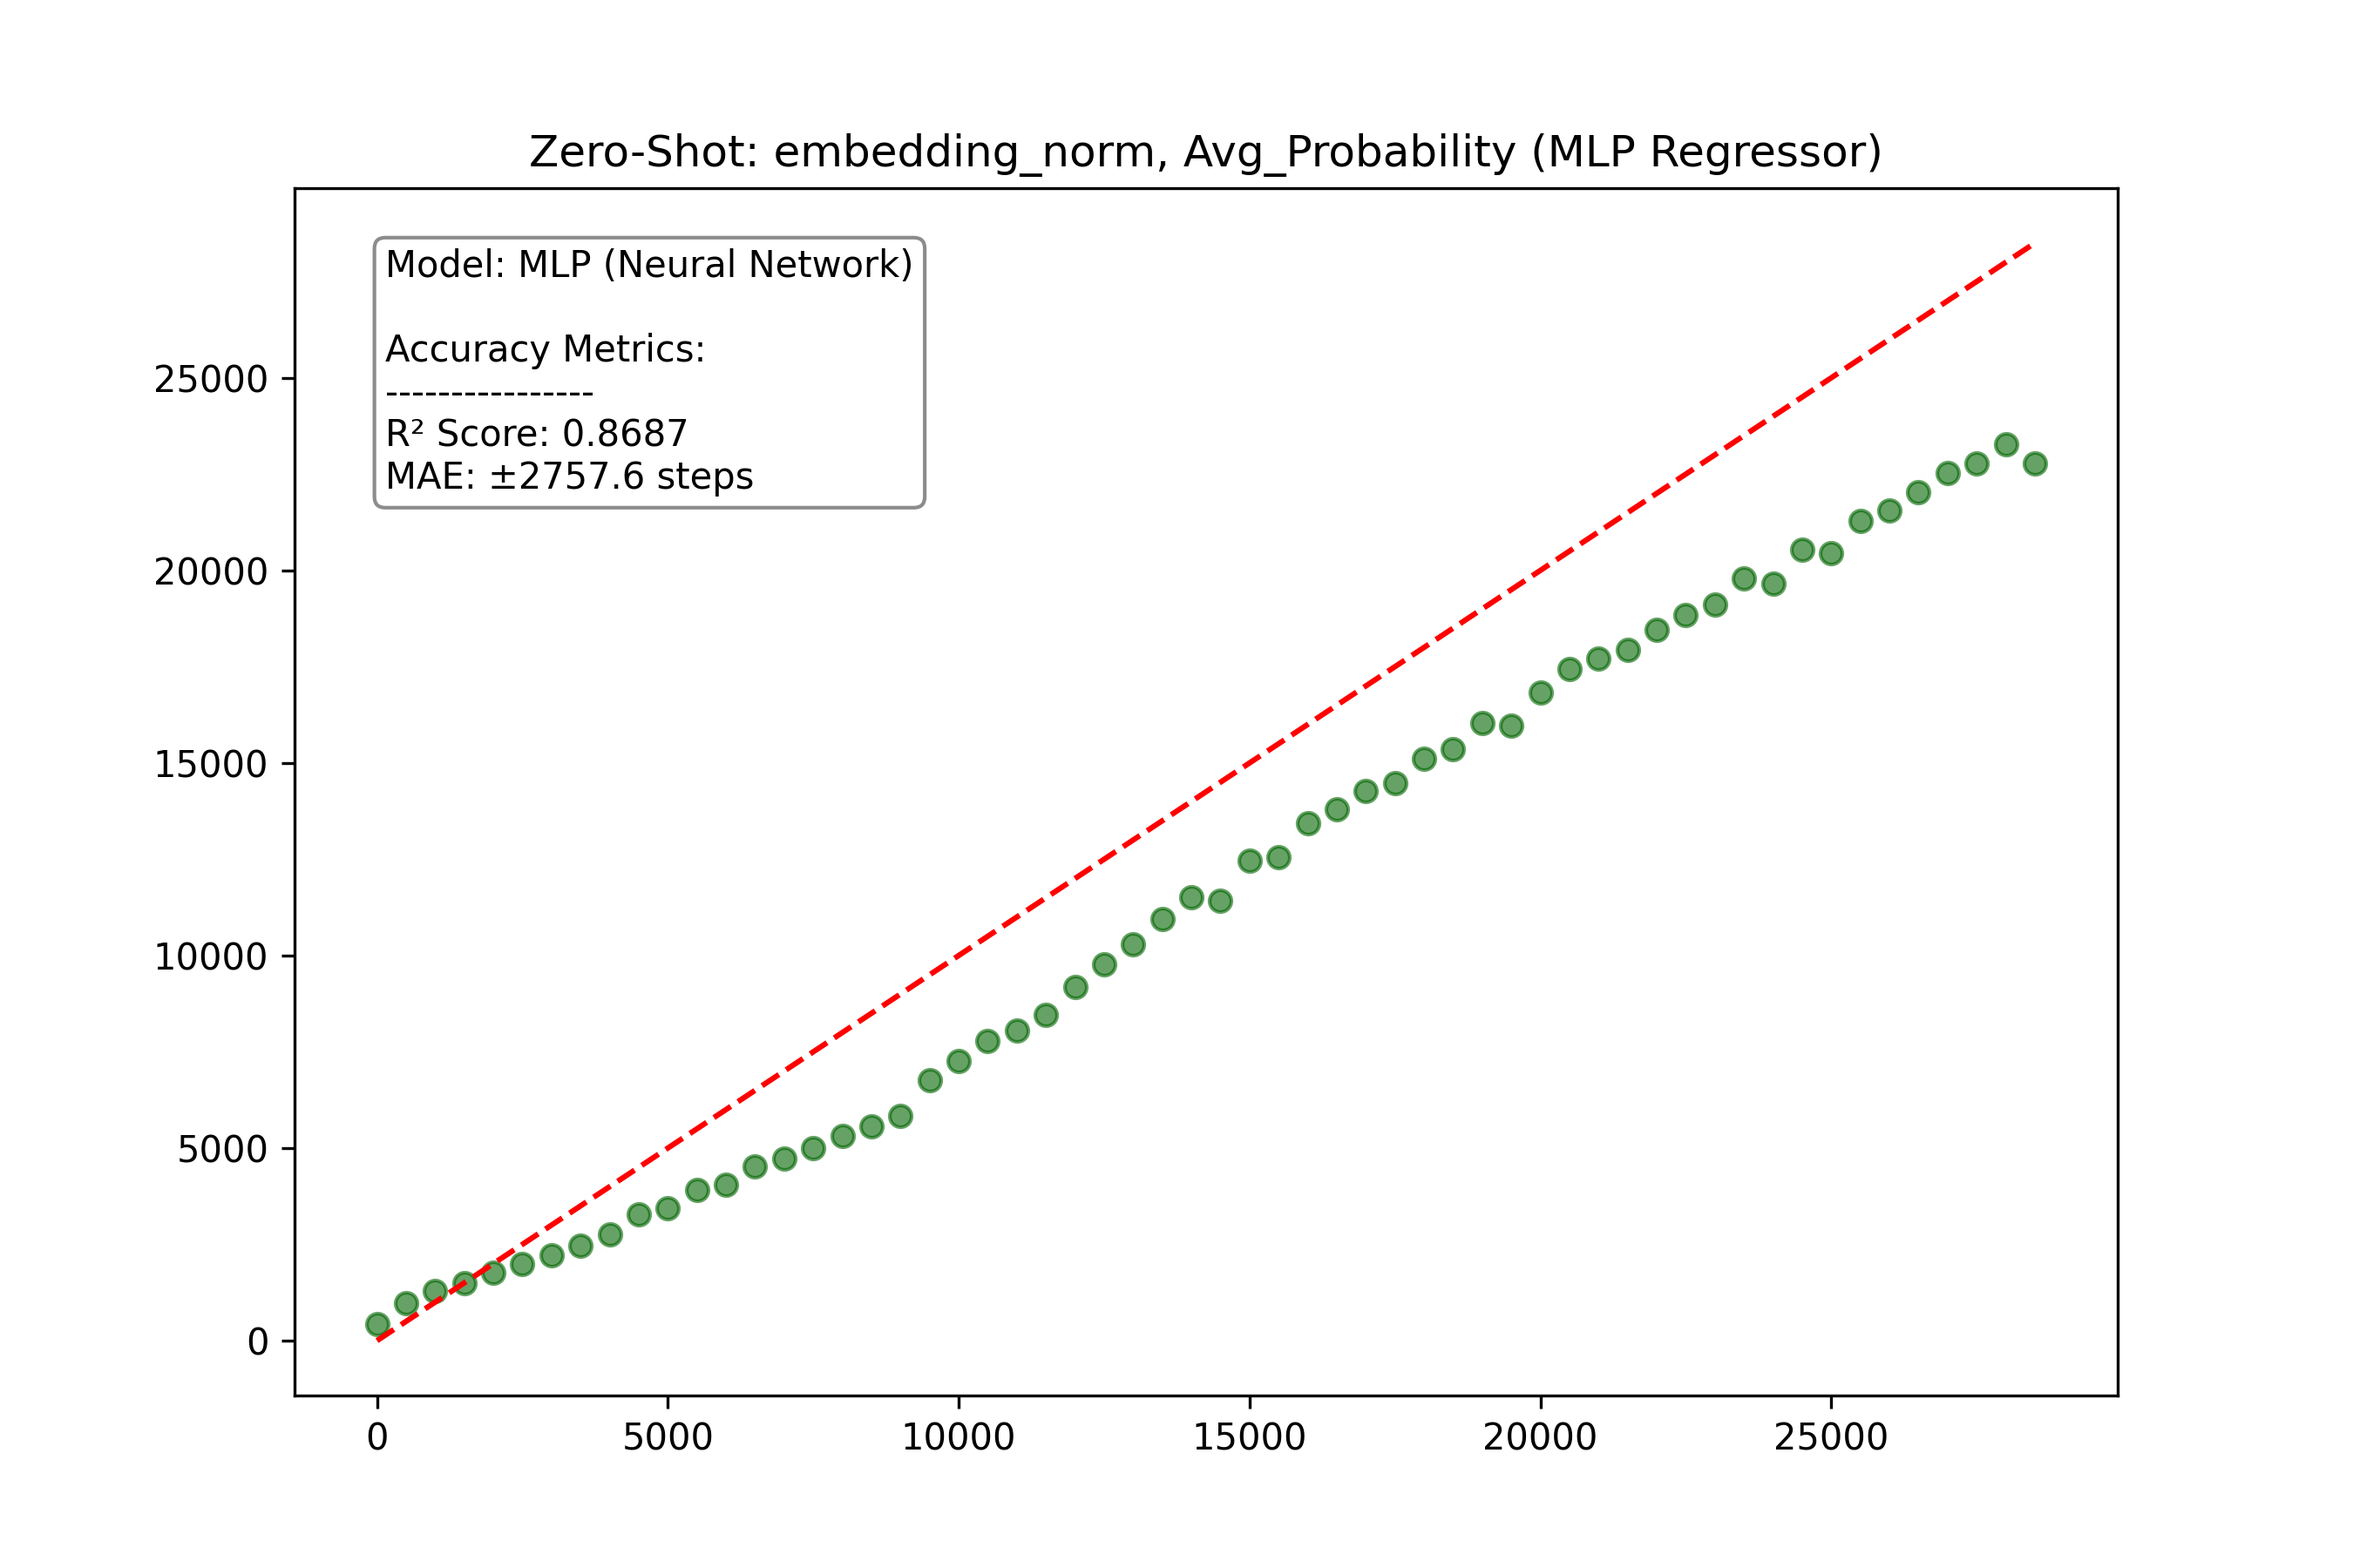
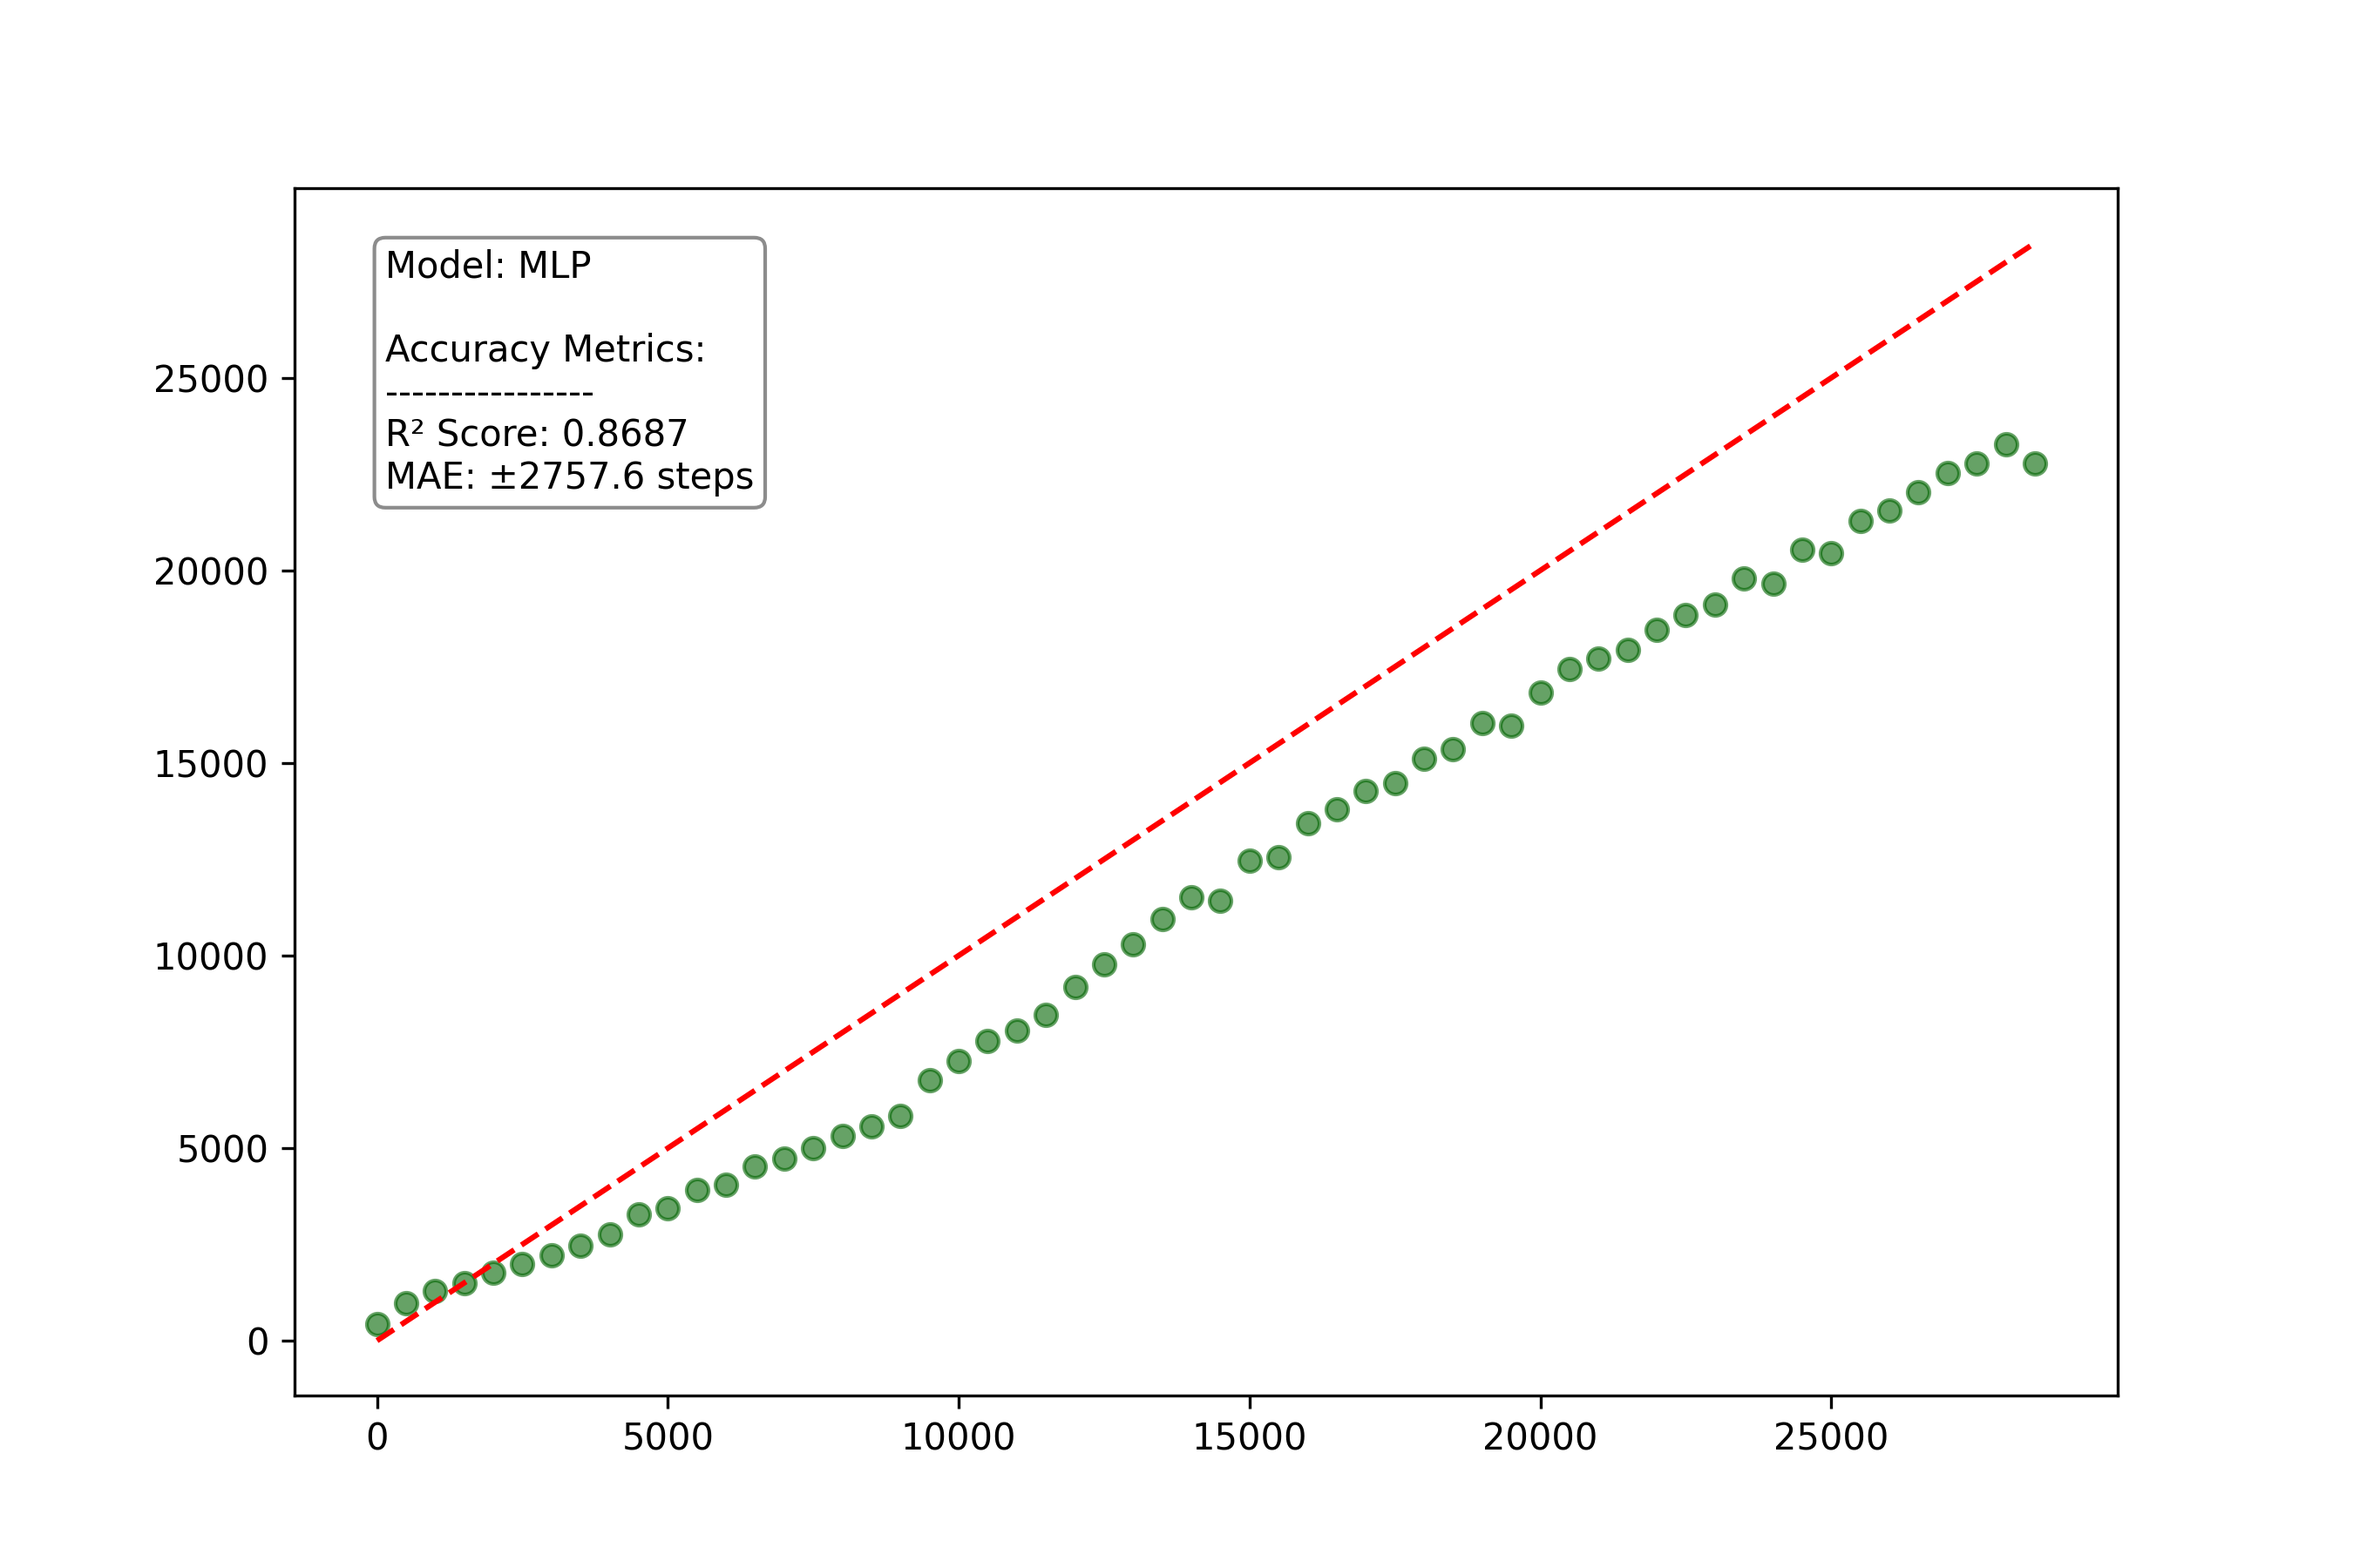
updating the comnibation between next token prob and embeding norm

Changed region(s): [[0.2178, 0.0933, 0.7778, 0.1244], [0.2489, 0.1556, 0.4044, 0.1867]]

diff --git a/combine_features/no_gui.py b/combine_features/no_gui.py
@@ -6,7 +6,8 @@ import numpy as np
 import os
 from sklearn.linear_model import LinearRegression
 from sklearn.neural_network import MLPRegressor
-from sklearn.preprocessing import StandardScaler
+from sklearn.ensemble import RandomForestRegressor
+from sklearn.preprocessing import StandardScaler, PolynomialFeatures
 from sklearn.pipeline import make_pipeline
 from sklearn.model_selection import cross_val_predict, KFold
 from sklearn.metrics import r2_score, mean_absolute_error
@@ -39,7 +40,6 @@ def inverse_exp_func(prob, a, b):
     return a * np.exp(b * prob)
 
 def get_mlp_model():
-    """Consistent MLP architecture for non-linear forensic mapping"""
     return make_pipeline(
         StandardScaler(), 
         MLPRegressor(hidden_layer_sizes=(50, 25), max_iter=5000, 
@@ -75,7 +75,7 @@ def scale_features(df_subset):
     return df_scaled
 
 # ==========================================
-# 4. PLOT GENERATION
+# 4. MAIN ANALYSIS
 # ==========================================
 def generate_all_plots():
     df = load_and_merge_data()
@@ -83,7 +83,10 @@ def generate_all_plots():
         print("❌ Error: CSV files missing!")
         return
 
-    # --- 1-3: Internal Joint Prediction (CV - Linear) ---
+    print(f"\n{'='*65}\n📊 PART 1: INTERNAL ARCHITECTURE ANALYSIS (CV)\n{'='*65}")
+    print(f"{'Model':<15} | {'R² Score':<10} | {'MAE (Steps)':<12}")
+    print("-" * 45)
+
     for model_name in ['Model 7M', 'Model 30M', 'Model 124M']:
         subset = df[df['Model'] == model_name].sort_values('Step')
         if subset.empty: continue
@@ -91,13 +94,16 @@ def generate_all_plots():
         model = make_pipeline(StandardScaler(), LinearRegression())
         y_pred = cross_val_predict(model, X, y, cv=KFold(5, shuffle=True, random_state=42))
         
+        r2, mae = r2_score(y, y_pred), mean_absolute_error(y, y_pred)
+        print(f"{model_name:<15} | {r2:<10.4f} | {mae:<12.2f}")
+
         fig, ax = plt.subplots(figsize=(9, 6))
         ax.scatter(y, y_pred, color=MODEL_COLORS[model_name], alpha=0.6)
         ax.plot([y.min(), y.max()], [y.min(), y.max()], 'k--', alpha=0.5)
         ax.set_title(f"Internal Forensic Accuracy: {model_name}")
         ax.set_xlabel("Actual Steps")
         ax.set_ylabel("Predicted Steps")
-        add_stats_box(ax, r2_score(y, y_pred), mean_absolute_error(y, y_pred), "Internal CV (Linear Hybrid)")
+        add_stats_box(ax, r2, mae, "Internal CV (Linear Hybrid)")
         plt.savefig(os.path.join(OUTPUT_DIR, f"cv_internal_{model_name.replace(' ', '_')}.png"), dpi=300)
         plt.close()
 
@@ -107,8 +113,10 @@ def generate_all_plots():
     test = df_scaled[df_scaled['Model'] == 'Model 124M']
     y_test_actual = test['Step'].values
 
-    # --- 4-9: Zero-Shot Variants (Standard vs MLP) ---
-    # Using a loop here makes the code shorter but more powerful
+    print(f"\n{'='*65}\n🚀 PART 2: ZERO-SHOT EXTRAPOLATION (7M+30M -> 124M)\n{'='*65}")
+    print(f"{'Scenario (Model Type)':<40} | {'R² Score':<10} | {'MAE (Steps)':<12}")
+    print("-" * 70)
+
     scenarios = [
         (['embedding_norm'], "Linear", "zs_only_emb_norm.png"),
         (['Avg_Probability'], "Exponential", "zs_only_prob.png"),
@@ -116,37 +124,69 @@ def generate_all_plots():
     ]
 
     for cols, mode, filename in scenarios:
-        # A) Standard/Best Fit (Linear or Exponential)
+        # A) Standard
         if mode == "Exponential":
             popt, _ = curve_fit(inverse_exp_func, train[cols[0]].values, train['Step'].values, maxfev=10000)
             y_pred = inverse_exp_func(test[cols[0]].values, *popt)
+            
+            # Physical Curve Plot
+            test_sorted = test.sort_values(cols[0])
+            plt.figure(figsize=(9, 6))
+            plt.scatter(test_sorted[cols[0]], test_sorted['Step'], color='#FFFF99', edgecolors='k', label="Actual 124M")
+            plt.plot(test_sorted[cols[0]], inverse_exp_func(test_sorted[cols[0]], *popt), 'r--', label="Exp Curve")
+            plt.title(f"Zero-Shot Physical Curve: {cols[0]}")
+            plt.savefig(os.path.join(OUTPUT_DIR, "zs_physical_curve_exp.png"))
+            plt.close()
         else:
             model = make_pipeline(StandardScaler(), LinearRegression())
             model.fit(train[cols].values, train['Step'].values)
             y_pred = model.predict(test[cols].values)
         
+        r2, mae = r2_score(y_test_actual, y_pred), mean_absolute_error(y_test_actual, y_pred)
+        scenario_name = f"{', '.join(cols)} ({mode})"
+        print(f"{scenario_name:<40} | {r2:<10.4f} | {mae:<12.2f}")
+
         fig, ax = plt.subplots(figsize=(9, 6))
         ax.scatter(y_test_actual, y_pred, color='blue', alpha=0.6)
         ax.plot([y_test_actual.min(), y_test_actual.max()], [y_test_actual.min(), y_test_actual.max()], 'r--')
-        ax.set_title(f"Zero-Shot: {', '.join(cols)} ({mode})")
-        add_stats_box(ax, r2_score(y_test_actual, y_pred), mean_absolute_error(y_test_actual, y_pred), f"Model: {mode}")
+        ax.set_title(f"Zero-Shot: {scenario_name}")
+        add_stats_box(ax, r2, mae, f"Model: {mode}")
         plt.savefig(os.path.join(OUTPUT_DIR, filename), dpi=300)
         plt.close()
 
-        # B) MLP Fit
+        # B) MLP
         mlp = get_mlp_model()
         mlp.fit(train[cols].values, train['Step'].values)
         y_pred_mlp = mlp.predict(test[cols].values)
-        
+        r2_m, mae_m = r2_score(y_test_actual, y_pred_mlp), mean_absolute_error(y_test_actual, y_pred_mlp)
+        scenario_mlp = f"{', '.join(cols)} (MLP)"
+        print(f"{scenario_mlp:<40} | {r2_m:<10.4f} | {mae_m:<12.2f}")
+
         fig, ax = plt.subplots(figsize=(9, 6))
         ax.scatter(y_test_actual, y_pred_mlp, color='darkgreen', alpha=0.6)
         ax.plot([y_test_actual.min(), y_test_actual.max()], [y_test_actual.min(), y_test_actual.max()], 'r--')
-        ax.set_title(f"Zero-Shot: {', '.join(cols)} (MLP Regressor)")
-        add_stats_box(ax, r2_score(y_test_actual, y_pred_mlp), mean_absolute_error(y_test_actual, y_pred_mlp), "Model: MLP (Neural Network)")
+        add_stats_box(ax, r2_m, mae_m, "Model: MLP")
         plt.savefig(os.path.join(OUTPUT_DIR, f"zs_mlp_{filename}"), dpi=300)
         plt.close()
 
+    # --- Advanced Hybrids ---
+    hybrid_cols = ['embedding_norm', 'Avg_Probability']
+    X_tr_h, y_tr_h = train[hybrid_cols].values, train['Step'].values
+    X_te_h, y_te_h = test[hybrid_cols].values, test['Step'].values
+
+    # 1. Polynomial
+    poly = make_pipeline(StandardScaler(), PolynomialFeatures(2), LinearRegression()).fit(X_tr_h, y_tr_h)
+    y_p = poly.predict(X_te_h)
+    r2_p, mae_p = r2_score(y_te_h, y_p), mean_absolute_error(y_te_h, y_p)
+    print(f"{'Combined (Polynomial D2)':<40} | {r2_p:<10.4f} | {mae_p:<12.2f}")
+
+    # 2. Random Forest
+    rf = make_pipeline(StandardScaler(), RandomForestRegressor(100, random_state=42)).fit(X_tr_h, y_tr_h)
+    y_rf = rf.predict(X_te_h)
+    r2_rf, mae_rf = r2_score(y_te_h, y_rf), mean_absolute_error(y_te_h, y_rf)
+    print(f"{'Combined (Random Forest)':<40} | {r2_rf:<10.4f} | {mae_rf:<12.2f}")
+
+    print(f"\n{'='*65}\n✅ Analysis complete. Results in 'no_gui' folder.\n{'='*65}")
+
 if __name__ == "__main__":
-    print(f"🚀 Running Analysis: 9 Plots Total (CV + Zero-Shot + MLP)...")
     generate_all_plots()
-    print(f"✅ Success. Results available in 'no_gui' folder.")
